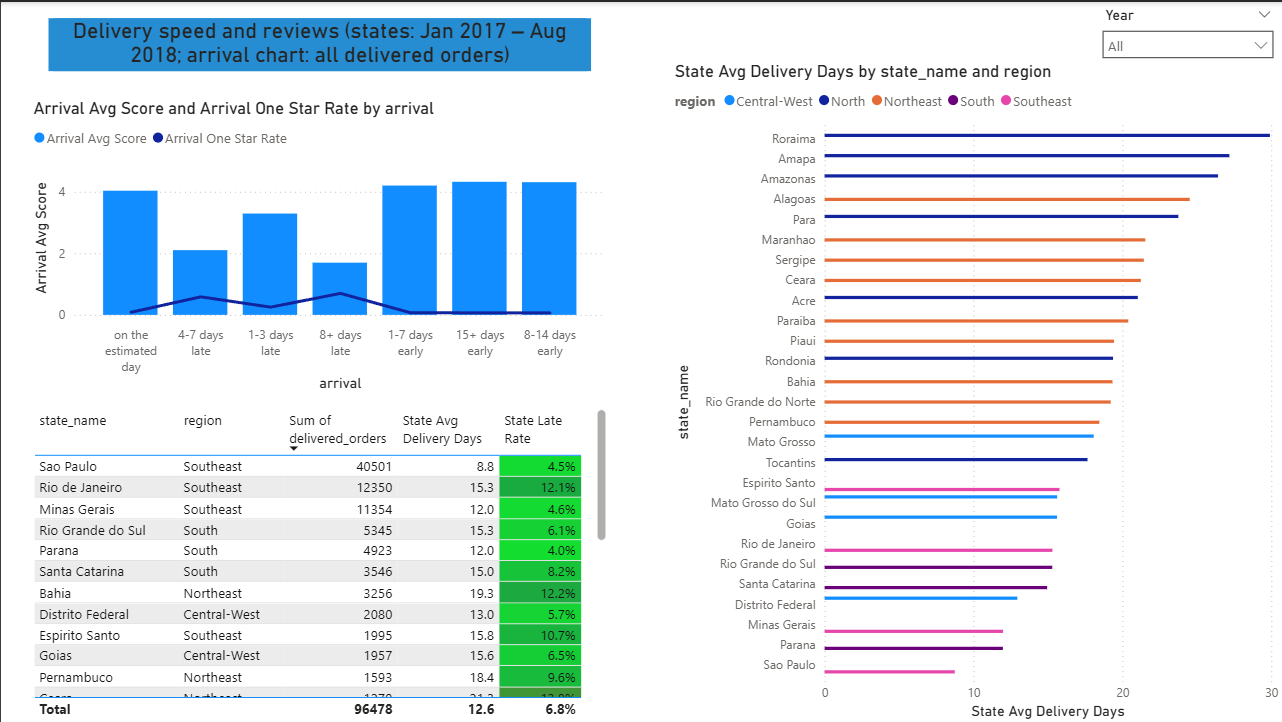
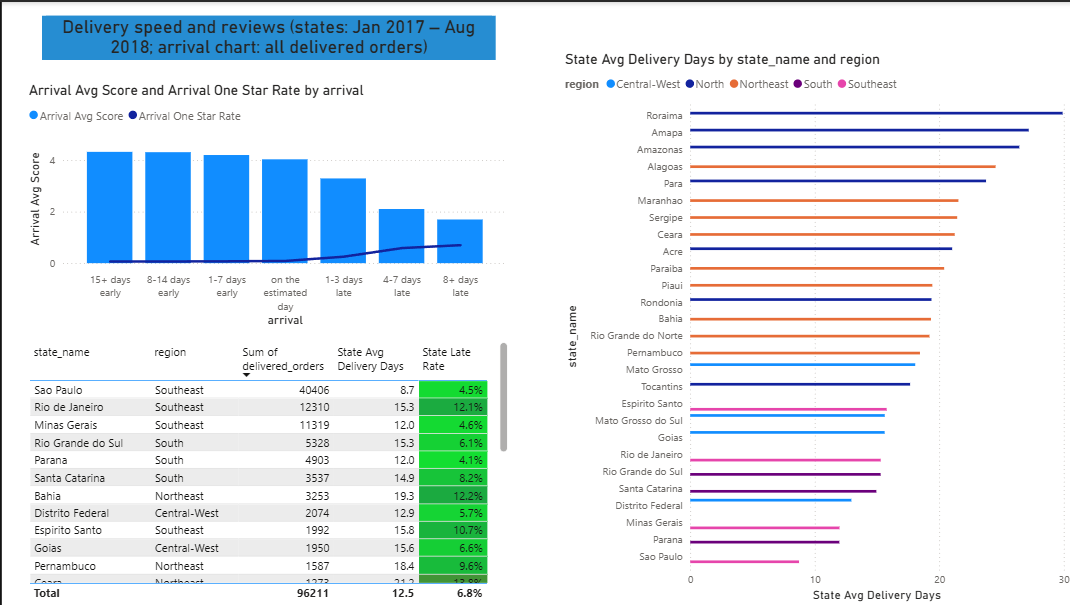
Add dashboard section to README and refine dashboard

diff --git a/README.md b/README.md
@@ -21,6 +21,16 @@ Full results, tables and recommendations are in [`results/executive_summary.md`]
 5. **Office furniture disappoints even when it arrives on time,** scoring 0.53 below the average for on-time orders.
 6. **98.9% of orders' payments reconcile to within R$0.01.** R$162,592 was paid on 775 unfulfilled orders with no refund records, and overpayments rise with the number of instalments, which fits card interest.
 
+## Dashboard
+
+A Power BI report ([`dashboard/olist_dashboard.pbix`](dashboard/olist_dashboard.pbix)) with five pages: Executive, Delivery, Categories, Sellers and Customers. It reads only from the tested marts. Every measure divides sums by counts rather than averaging percentages, and every headline figure was checked against [`queries/06_dashboard_reference.sql`](queries/06_dashboard_reference.sql). The Executive page has a year filter, so each year can be viewed on its own.
+
+![Executive page](results/dashboard_executive.png)
+
+![Delivery page](results/dashboard_delivery.png)
+
+Other pages: [Categories](results/dashboard_categories.png) · [Sellers](results/dashboard_sellers.png) · [Customers](results/dashboard_customers.png)
+
 ## Project status
 
 | Step | Work | Status |
@@ -29,7 +39,7 @@ Full results, tables and recommendations are in [`results/executive_summary.md`]
 | 2 | Staging and data profiling | Done |
 | 3 | Star schema (dimensions and facts) | Done |
 | 4 | Business analysis queries | Done |
-| 5 | Reconciliation controls and dashboard | Marts and controls done; dashboard next |
+| 5 | Reconciliation controls and dashboard | Done |
 
 ## Architecture
 
@@ -142,6 +152,9 @@ docs/
   controls.md            reconciliation controls and exception lifecycle
 results/
   executive_summary.md   findings, recommendations and limitations
+  dashboard_*.png        screenshots of each dashboard page
+dashboard/
+  olist_dashboard.pbix   Power BI report built on the marts
 ```
 
 ## Data source
